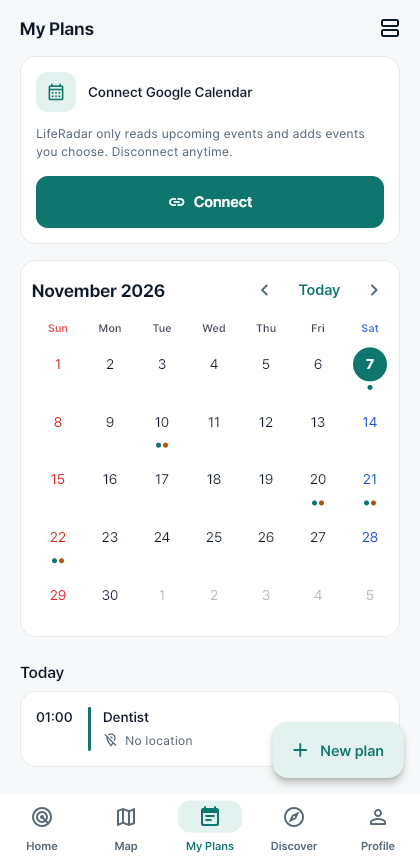
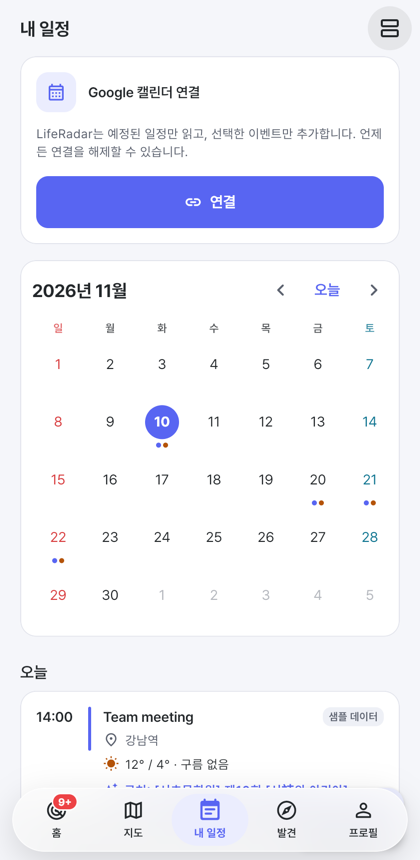
docs: README·가이드 최신화 (스크린숏, 데이터 규모, 테스트 수, AI 비서·자기소개)

diff --git a/README.md b/README.md
@@ -8,9 +8,16 @@
 
 <p align="center">
   <img src="docs/images/home.png" width="190" alt="홈 — 일정과 연결된 신호 카드">
-  <img src="docs/images/discover.png" width="190" alt="발견 — 실제 공공데이터 행사">
-  <img src="docs/images/route-results.png" width="190" alt="경로 주변 기회">
-  <img src="docs/images/event-detail.png" width="190" alt="상세 — 왜 나에게 중요한가">
+  <img src="docs/images/assistant-answer.png" width="190" alt="AI 비서 — 실제 행사 후보 안에서 답하고 [추가]/[취소]">
+  <img src="docs/images/about-me.png" width="190" alt="AI에게 나를 소개하기 — 근거 문구와 함께 제안">
+  <img src="docs/images/route-results.png" width="190" alt="경로 주변 기회 — 추가 km·분">
+</p>
+<p align="center">
+  <img src="docs/images/discover.png" width="150" alt="발견 — 필터와 관심사 맞춤 포스터">
+  <img src="docs/images/event-detail.png" width="150" alt="상세 — 날씨·신뢰도·공유">
+  <img src="docs/images/plans-month.png" width="150" alt="내 일정 — 월간 달력">
+  <img src="docs/images/route-map.png" width="150" alt="경로 지도 — 패널을 내린 모습">
+  <img src="docs/images/home-dark.png" width="150" alt="다크 모드">
 </p>
 
 ## 1. 문제
@@ -23,6 +30,7 @@
 | **기회를 놓친다** | 관심 분야의 세미나·창업 지원 공고는 직접 찾지 않으면 마감이 지난 뒤에야 안다 |
 | **질문해야만 답을 준다** | 검색 엔진·지도·AI 챗봇 모두 "무엇을 물어야 할지" 알아야 쓸 수 있다 |
 | **이동 경로는 고려되지 않는다** | "KTX로 가는 길에 잠깐 들를 만한 행사"를 보여주는 서비스가 없다 |
+| **한국에 사는 외국인에게는 더 어렵다** | 공지는 한국어로, 기관마다 다른 사이트에 있다. 팀원이 유학생으로 직접 겪은 문제 — 행사를 알게 됐을 때는 이미 마감이 지나 있었다 |
 | **AI의 말을 믿기 어렵다** | 생성형 AI는 없는 행사나 틀린 날짜를 그럴듯하게 만들어낸다 |
 
 ## 2. 해결 — "알려주는 것은 AI, 결정은 사람"
@@ -61,21 +69,21 @@
 | **AI 비서** | 홈의 ✨ 버튼 → "이번 주말 뭐 하지?", "Busan trip 때 갈 만한 곳?" 질문에 실제 행사 카드로 답하고, 캘린더 추가·지도 보기를 **제안** → 사용자가 [추가]/[취소] | 필터를 고르는 대신 말로 물어보면, AI가 찾아 주고 결정은 내가 한다 |
 | **AI에게 나를 소개하기** | 자유롭게 쓴 소개글에서 Gemini가 지금 상황(학생·구직·직장인·창업·프리랜서)과 관심사를 **근거 문구와 함께 제안** → 사용자가 맞는 것만 골라 적용. 상황은 순위에 반영 (학생 → 장학금·학생 프로그램, 창업 → 창업 지원 공고) | 칩 26개로는 "졸업하고 프론트엔드 개발자로 취업 준비 중" 같은 사정을 담기 어렵다 |
 | **취향 학습** | 👍/👎/숨기기가 태그·카테고리 가중치를 바꿔 홈·발견·지도·경로를 다시 정렬 | 한 번 "이건 아니야"라고 하면 실제로 줄어들어야 한다 |
-| **경로 기반 발견** | 출발·도착·날짜 → KTX(대중교통)·자동차 경로와 15 km 안의 같은 날 행사, 추가 거리·시간 | 이미 정해진 이동 시간 안에서 "조금만 돌아가면 되는 기회" |
+| **경로 기반 발견** | 출발·도착·날짜 → KTX(대중교통)·자동차 경로와 15 km 안의 같은 날 행사, 추가 거리·시간. 내 관심사·종류별 필터(지도 핀도 함께), 끌어내리는 결과 패널 | 이미 정해진 이동 시간 안에서 "조금만 돌아가면 되는 기회" |
 | **뉴스로 본 파업** | 네이버 뉴스에서 Gemini가 국내 대중교통 파업(예고·진행·철회·종료)을 판독하고, 코드가 기사 원문 인용으로 검증 → 일정 지역·날짜가 맞으면 **참고 카드** (인용·기사 링크, 알림 없음) | 파업 소식은 공식 API가 없고 뉴스에만 있다. 해외 시위·드라마·끝난 파업이 섞여 키워드로는 구분할 수 없다 |
 | **공식 교통 통제** | 서울 시내(TOPIS)와 전국 고속도로·국도(ITS)의 행사·공사·기상·재난 통제가 일정 장소 1 km 이내·시작 전 2시간이면 경고 (같은 도로는 한 번만, 일정당 최대 2개) | 행사 개최만으로 혼잡을 단정하지 않고, 공식 정보가 있을 때만 경고 |
-| **Google 캘린더** | 향후 90일 일정 읽기, 행사 추가, 일정 수정·삭제. Android는 Google 캘린더 앱으로 열기 | 사용자의 실제 계획이 있어야 "나와 관련된" 신호가 된다 |
+| **내 일정 · Google 캘린더** | 향후 90일 일정 읽기, 행사 추가, 직접 만든 일정 추가·수정·삭제(밀어서 삭제), 목록/월간 달력, 지도 일정 핀 → 상세·수정. Android는 Google 캘린더 앱으로 열기 | 사용자의 실제 계획이 있어야 "나와 관련된" 신호가 된다 |
 | **발견** | 검색 · 기간(오늘/주말/7일/한 달) · 지역 · 무료 · 내 관심사 필터, 추천순/날짜순, 관심사 맞춤 포스터, 공유(카카오톡·인스타그램 등 기기 공유 창) | 수백 개 행사 중 "이번 주말 부산, 무료"를 바로 찾을 수 있게 |
 | **알림** | 2일 이내 마감·3일 이내 일정 경고를 시스템 알림으로 (Android·웹) | 시간이 중요한 신호는 앱을 열 때까지 기다리면 늦다 |
-| **ko / en · 라이트/다크** | 모든 화면 2개 언어, 행사명도 영어로 번역 | 한국에 사는 외국인 유학생도 쓸 수 있게 |
+| **ko / en · 라이트/다크** | 모든 화면 2개 언어, 행사명도 영어로 번역. 브랜드 색 #5865F2 · #23272A, 눈부시지 않은 다크 모드 | 한국에 사는 외국인 유학생도 쓸 수 있게 — 팀원이 직접 겪은 문제 |
 
 ## 4. 데이터 — 어디서, 언제 오나요
 
 | 데이터 | 출처 | 갱신 | 앱이 받는 방법 |
 |---|---|---|---|
-| 실제 행사 635건 (11/8) | 서울 열린데이터광장 문화행사 · 한국관광공사 TourAPI 축제 · 창업진흥원 K-Startup 공고 | 매일 06:00 KST | BE가 게시한 `events.json` (캐시 → 최신 다운로드 → 검증 후 교체, 오프라인 동작) |
-| 대중교통 파업 (뉴스) | 네이버 뉴스 검색 (NAVER API HUB) → Gemini 판독 (11/8: 기사 150건 → 사건 15건, 활성 10건) | 3시간마다 | BE가 게시한 `news.json` |
-| 공식 도로 통제 (서울) | 서울시 TOPIS 실시간 돌발정보 | 3시간마다 | BE가 게시한 `traffic.json` |
+| 실제 행사 828건 (11/9) | 서울 열린데이터광장 문화행사 303 · KOPIS 서울 밖 공연 250 · 한국관광공사 TourAPI 축제 75 · 창업진흥원 K-Startup 공고 200 | 매일 06:00 KST | BE가 게시한 `events.json` (캐시 → 최신 다운로드 → 검증 후 교체, 오프라인 동작) |
+| 대중교통 파업 (뉴스) | 네이버 뉴스 검색 (NAVER API HUB) → Gemini 판독 (11/9: 기사 150건 → 사건 14건, 예고·조건부 11건) | 3시간마다 | BE가 게시한 `news.json` |
+| 공식 도로 통제 (서울) | 서울시 TOPIS 실시간 돌발정보 (11/9: 32건) | 3시간마다 | BE가 게시한 `traffic.json` |
 | 공식 도로 통제 (전국) | 국가교통정보센터(ITS) 돌발상황정보 — 공사·행사·기상·재난 (11/8 기준 약 190건) | 앱 실행 시 | **앱이 기기에서 직접 조회** — ITS가 해외 IP(GitHub Actions)를 차단하기 때문 |
 | 내 일정 | Google Calendar API | 연결·새로고침 시 | 사용자 OAuth 동의 후 직접 호출 |
 | 경로 | Google Routes (대중교통) · Kakao Mobility (자동차) | 요청 시 | 직접 호출 |
@@ -120,15 +128,15 @@
 ```mermaid
 flowchart LR
   subgraph BE["BE · GitHub Actions"]
-    SRC["공공 API 5종"] --> NORM["정규화·검증"] --> EN["Gemini 번역·태그"]
-    EN --> DATA["data 브랜치<br/>events.json · traffic.json"]
+    SRC["공공 API 6종 + 네이버 뉴스"] --> NORM["정규화·검증"] --> EN["Gemini 번역·태그·뉴스 판독"]
+    EN --> DATA["data 브랜치<br/>events.json · news.json · traffic.json"]
   end
   subgraph AI["AI · liferadar_core"]
     ENG["InsightEngine · RouteMatcher<br/>TrafficMatcher · Taste"]
-    W["InsightWriter<br/>(프롬프트·숫자 검증)"]
+    W["InsightWriter · Assistant<br/>ProfileExtractor<br/>(프롬프트·검증)"]
   end
   subgraph FE["FE · Flutter (Android / Web)"]
-    FEED["LiveEvents · LiveTraffic"] --> CARDS["홈 · 지도 · 경로 · 발견"]
+    FEED["LiveEvents · LiveNews · LiveTraffic"] --> CARDS["홈 · AI 비서 · 지도 · 경로 · 발견"]
   end
   DATA --> FEED
   FE -. git 의존성 .-> AI
@@ -156,27 +164,29 @@ flutter build apk --release --split-per-abi --dart-define-from-file=env.json   #
 |---|---|
 | 앱 | Flutter 3.41 (Android · Web), Riverpod 3, go_router, gen_l10n, shared_preferences |
 | 판단·AI | `liferadar_core` (AI 저장소) — 규칙 엔진, Gemini `gemini-3.5-flash-lite` (예비 `3.1-flash-lite`) |
-| 데이터 | BE 저장소 — 공공 API 5종, GitHub Actions 스케줄, 정적 JSON (raw.githubusercontent.com) |
+| 데이터 | BE 저장소 — 공공 API 6종 + 네이버 뉴스, GitHub Actions 스케줄, 정적 JSON (raw.githubusercontent.com) |
 | 지도·경로 | Kakao Maps SDK, Kakao Local · Mobility, Google Routes |
 | 일정·로그인·날씨 | Google Calendar API, Google Sign-In (Android·웹), Google Weather |
 | 알림 | Android `flutter_local_notifications`, 웹 Notification API |
-| 디자인 | 자체 디자인 시스템 (라이트/다크, 대비 ≥ 4.5:1, 동작 줄이기 지원), Pretendard 서브셋 글꼴 |
-| 품질 | 테스트 — FE 43 · AI 59 · BE 23개, 3개 저장소 모두 GitHub Actions CI |
+| 디자인 | 자체 디자인 시스템 — 브랜드 #5865F2 · #23272A · #FFFFFF, 라이트/다크 (본문 대비 ≥ 4.5:1), 그라데이션·누름 애니메이션·스켈레톤, 동작 줄이기 지원, Pretendard 서브셋 글꼴 |
+| 품질 | 테스트 146개 — FE 50 · AI 73 · BE 23, 3개 저장소 모두 GitHub Actions CI. AI 기능 4종은 실제 Gemini로 실측 평가 |
+| 공유·버전 | `share_plus` (기기 공유 창), `package_info_plus` (프로필의 앱 버전) |
 
 ## 10. 구현 범위와 한계 (정직하게)
 
 **직접 구현**: 앱 전체 UI·상태·캐시, 규칙 엔진, AI 프롬프트·검증, 수집기와 스케줄 게시, 디자인 시스템, 테스트.
-**외부 기술**: Google(Calendar·Routes·Weather·Gemini·Sign-In), Kakao(Maps·Local·Mobility), 공공 API 5종.
+**외부 기술**: Google(Calendar·Routes·Weather·Gemini·Sign-In), Kakao(Maps·Local·Mobility), 공공 API 6종, NAVER API HUB.
 **AI 코딩 도구**: 개발 과정에서 AI 코딩 도우미(Claude)를 사용했고 커밋에 공동 작성자로 표시했습니다.
 
 **샘플·미검증 범위**
 - IT 컨퍼런스·해커톤(대전 AI 세미나, 벡스코 AI 엑스포 등)은 공개 API가 없어 **샘플** — 화면에 `샘플` 배지로 표시
-- 공식 교통 통제: 서울은 시내 도로까지, 그 외 지역은 **고속도로·국도 위주** (도시 내부 집회 통제는 경찰청 UTIC API 신청 중)
+- 공식 교통 통제: 서울은 시내 도로까지, 그 외 지역은 **고속도로·국도 위주** (도시 내부 집회 통제는 경찰청 UTIC API — 키 발급 완료, 접속 IP 등록 대기)
 - 알림은 **앱 실행 중**에만 — 앱이 닫혀 있을 때의 서버 푸시(FCM)는 설계만
 - 지도·경로·날씨·Gemini 키가 **데모를 위해 앱 안에** 있음 → 다음 단계: BE의 API 프록시
 - 관심사·일정·피드백은 **기기에만** 저장 (기기 간 동기화 없음)
 - 대중교통 "추가 시간"은 가장 가까운 역에서 행사장까지 왕복 기준의 추정치
-- AI 문장 품질은 시나리오 카드 기준으로만 평가 (정답셋 정량 평가 없음)
+- AI 평가는 팀이 만든 소규모 실측(카드 6개, 뉴스 25건, 소개글 7개 × 3회, 비서 질문 7개)이며, 사람이 라벨링한 대규모 정답셋 평가는 아님
+- Google 로그인은 공개(프로덕션) 상태지만 Google 앱 검토 전이라 "확인하지 않은 앱" 안내가 나옴 (고급 → 이동)
 
 ## 11. 개발 기록
 
@@ -185,7 +195,9 @@ flutter build apk --release --split-per-abi --dart-define-from-file=env.json   #
 | 11/5 | 기획, MVP 계획, Flutter 골격, 카카오 지도 |
 | 11/6 | 경로 기반 발견(KTX·자동차), Google 캘린더 연동, 날씨, 온보딩, 규칙 인사이트 엔진, 디자인 시스템 |
 | 11/7 | 실제 공공데이터 수집 + Gemini 번역, 첫 실행 설정·계정 삭제, liquid glass UI, Gemini 카드 문장 + 숫자 검증, 피드백 취향 학습, 시연 데이터 자동 이동, 친절한 오류 메시지 |
-| 11/8 | 매일 데이터 갱신, Android 알림·Google 캘린더 앱 연결, 공식 교통 통제(TOPIS·전국 ITS) 판별, 일정 연결 줄, FE·BE·AI 팀 저장소로 분리 이전 |
+| 11/8 | 매일 데이터 갱신, Android 알림·Google 캘린더 앱 연결, 공식 교통 통제(TOPIS·전국 ITS) 판별, 뉴스 파업 판독, KOPIS 전국 공연, 일정 연결 줄, FE·BE·AI 팀 저장소로 분리 이전 |
+| 11/9 | 실기기 피드백 반영(발견 필터·검색, 끌어내리는 경로 패널, 지도 일정 핀 상세), **AI에게 나를 소개하기**·지금 상황, 행사 공유, 개인정보처리방침·Google 로그인 공개 전환, 새 브랜드 색, 경로 관심사 필터, 일정 삭제, **AI 비서** |
+| 11/10 | 실기기 전체 기능 확인, 문서·스크린숏 갱신 |
 
 2026-11-05부터 개인 작업 저장소에서 개발했고, 2026-11-08 팀 저장소(FE·BE·AI)로 이전했습니다.
 

diff --git a/docs/PRIVACY.md b/docs/PRIVACY.md
@@ -1,6 +1,6 @@
 # LifeRadar 개인정보처리방침 · Privacy Policy
 
-시행일 · Effective: 2026-11-09
+시행일 · Effective: 2026-11-09 (개정 2026-11-10: AI 비서)
 
 LifeRadar는 2026 AI 우왕톤 Team 27 (DALAB)이 만든 해커톤 MVP입니다. **사용자 정보를 저장하는 자체 서버가 없습니다.** 앱이 다루는 개인정보는 사용자의 기기에 저장되고, 아래 표의 기능을 쓸 때만 해당 서비스로 직접 전송됩니다.
 
@@ -13,13 +13,14 @@ LifeRadar는 2026 AI 우왕톤 Team 27 (DALAB)이 만든 해커톤 MVP입니다.
 | 사용자가 고른 행사 → 캘린더 일정 추가·수정·삭제 | Google Calendar API | 사용자가 누른 경우에만 | 사용자의 Google 캘린더 |
 | 관심사, 지금 상황, 직접 만든 일정, 👍/👎 피드백 | 사용자 입력 | 추천 순서 | 기기 |
 | "나를 소개하기"에 쓴 글 | 사용자 입력 | 상황·관심사 제안 | 기기 |
+| AI 비서 대화 | 사용자 입력 | 질문에 맞는 행사 찾기·제안 | 저장하지 않음 (앱을 닫으면 사라짐) |
 | 현재 위치 | 기기 위치 (권한 허용 시) | 지도에 내 위치 표시 | 저장하지 않음 |
 
 ## 2. 외부 서비스로 보내는 정보
 
 | 서비스 | 보내는 정보 | 언제 |
 |---|---|---|
-| Google Gemini API | 카드 설명에 필요한 사실(일정 제목·장소·날짜, 행사 정보), "나를 소개하기" 글 | AI 문장·제안을 만들 때 |
+| Google Gemini API | 카드 설명에 필요한 사실(일정 제목·장소·날짜, 행사 정보), "나를 소개하기" 글, AI 비서 질문과 답에 필요한 정보(최근 대화 6턴, 후보 행사, 일정 제목·날짜·장소, 관심사·상황) | AI 문장·제안·비서 답을 만들 때 |
 | Google Routes · Weather API | 출발·도착 장소, 일정 장소 | 경로·날씨를 볼 때 |
 | Kakao Maps · Local · Mobility | 지도 표시 영역, 장소 검색어, 출발·도착 | 지도·검색·경로를 쓸 때 |
 | 국가교통정보센터(ITS) | 없음 (공개 교통 정보만 받음) | 앱 실행 시 |
@@ -43,4 +44,4 @@ LifeRadar가 Google API로 받은 정보의 사용과 다른 앱으로의 전송
 
 ## English summary
 
-LifeRadar is a hackathon MVP by Team 27 (DALAB). **It has no server that stores user data.** Your Google name and email, calendar events (next 90 days, `calendar.events` scope), interests, situation, self-introduction text and feedback are stored **on your device only**. Data is sent directly to Google (Gemini, Routes, Weather, Calendar) and Kakao (Maps, Local, Mobility) only when you use the corresponding feature, and is never sold or used for ads. LifeRadar's use and transfer of information received from Google APIs adheres to the [Google API Services User Data Policy](https://developers.google.com/terms/api-services-user-data-policy), including the Limited Use requirements; calendar data is not used to train AI models. Delete everything with **Profile → Delete account** or by uninstalling; revoke Google access at <https://myaccount.google.com/connections>. Contact: [GitHub Issues](https://github.com/woowangthon/WOOWANGTHON_TEAM_27_FE/issues).
+LifeRadar is a hackathon MVP by Team 27 (DALAB). **It has no server that stores user data.** Your Google name and email, calendar events (next 90 days, `calendar.events` scope), interests, situation, self-introduction text and feedback are stored **on your device only**; AI assistant chats are kept in memory only and sent to Gemini (with the candidate events and your plan titles, dates and places) only to answer. Data is sent directly to Google (Gemini, Routes, Weather, Calendar) and Kakao (Maps, Local, Mobility) only when you use the corresponding feature, and is never sold or used for ads. LifeRadar's use and transfer of information received from Google APIs adheres to the [Google API Services User Data Policy](https://developers.google.com/terms/api-services-user-data-policy), including the Limited Use requirements; calendar data is not used to train AI models. Delete everything with **Profile → Delete account** or by uninstalling; revoke Google access at <https://myaccount.google.com/connections>. Contact: [GitHub Issues](https://github.com/woowangthon/WOOWANGTHON_TEAM_27_FE/issues).

diff --git a/docs/PLAN.md b/docs/PLAN.md
@@ -1,6 +1,8 @@
 # LifeRadar AI — MVP 계획
 
-> 제출 마감: **2026-11-14** · 팀: 2명 · 플랫폼: **Flutter (Android)** · UI: **한국어 + 영어**
+> 제출 마감: **2026-11-15 18:00 KST** · 팀: 2명 · 플랫폼: **Flutter (Android · Web)** · UI: **한국어 + 영어**
+>
+> 이 문서는 11/5에 쓴 **처음 계획**입니다 (Firebase·FCM 서버 계산 등 일부는 바뀌었습니다). 실제로 만든 것과 그 이유는 [README](../README.md)와 아래 8장에 있습니다.
 
 ---
 
@@ -178,3 +180,19 @@ users/{uid}/routes/{routeId}
 | [WOOWANGTHON_TEAM_27_AI](https://github.com/woowangthon/WOOWANGTHON_TEAM_27_AI) | 판단 엔진과 AI 모듈 (`liferadar_core`, 순수 Dart) |
 
 > 초기 계획의 Firebase(Firestore·Cloud Functions)는 MVP에서 사용하지 않았습니다. 데이터는 BE의 정적 JSON으로, 사용자 데이터는 기기에 저장합니다. 서버 푸시 설계는 [PUSH_NOTIFICATIONS.md](PUSH_NOTIFICATIONS.md).
+
+## 9. 계획 대비 결과 (11/10)
+
+| # | 계획 | 결과 |
+|---|---|---|
+| M1 | Google 로그인 + 캘린더 | ✅ 읽기·추가·수정·삭제, 공개(프로덕션) 게시 |
+| M2 | 온보딩 | ✅ 관심사 26개 + 지금 상황 + **AI에게 나를 소개하기** (계획 밖 추가) |
+| M3 | Home — AI 인사이트 | ✅ 규칙 엔진 + Gemini 문장 + 숫자 검증, 일정 연결 줄, 뉴스 파업·공식 교통 통제 카드 |
+| M4·M5 | Map · Route | ✅ Kakao 지도, KTX·자동차 경로, 우회 km·분, 관심사 필터, 끌어내리는 패널 |
+| M6·M7 | Discover · 상세 | ✅ 실제 행사 828건, 검색·기간·지역·무료 필터, 포스터, 공유 |
+| M8 | 피드백 | ✅ 👍/👎/숨기기 → 취향 가중치 |
+| M9 | 선제적 푸시 (FCM) | 🟡 앱 실행 중 로컬 알림만 — 서버 푸시는 [설계](PUSH_NOTIFICATIONS.md) |
+| M10 | 다국어 | ✅ ko / en, 행사명 Gemini 번역 |
+| 추가 | 앱 안의 AI 비서 | ✅ 실제 행사 후보 안에서 답하고 행동은 사용자가 확인 |
+| Should | 날씨 경고 | ✅ Google Weather, 일정 날 비 예보 카드 |
+| Should | Search grounding으로 새 행사 발견 | ✕ 대신 공공 API 6종 + 네이버 뉴스 판독 (사실 출처를 고정하기 위해) |
